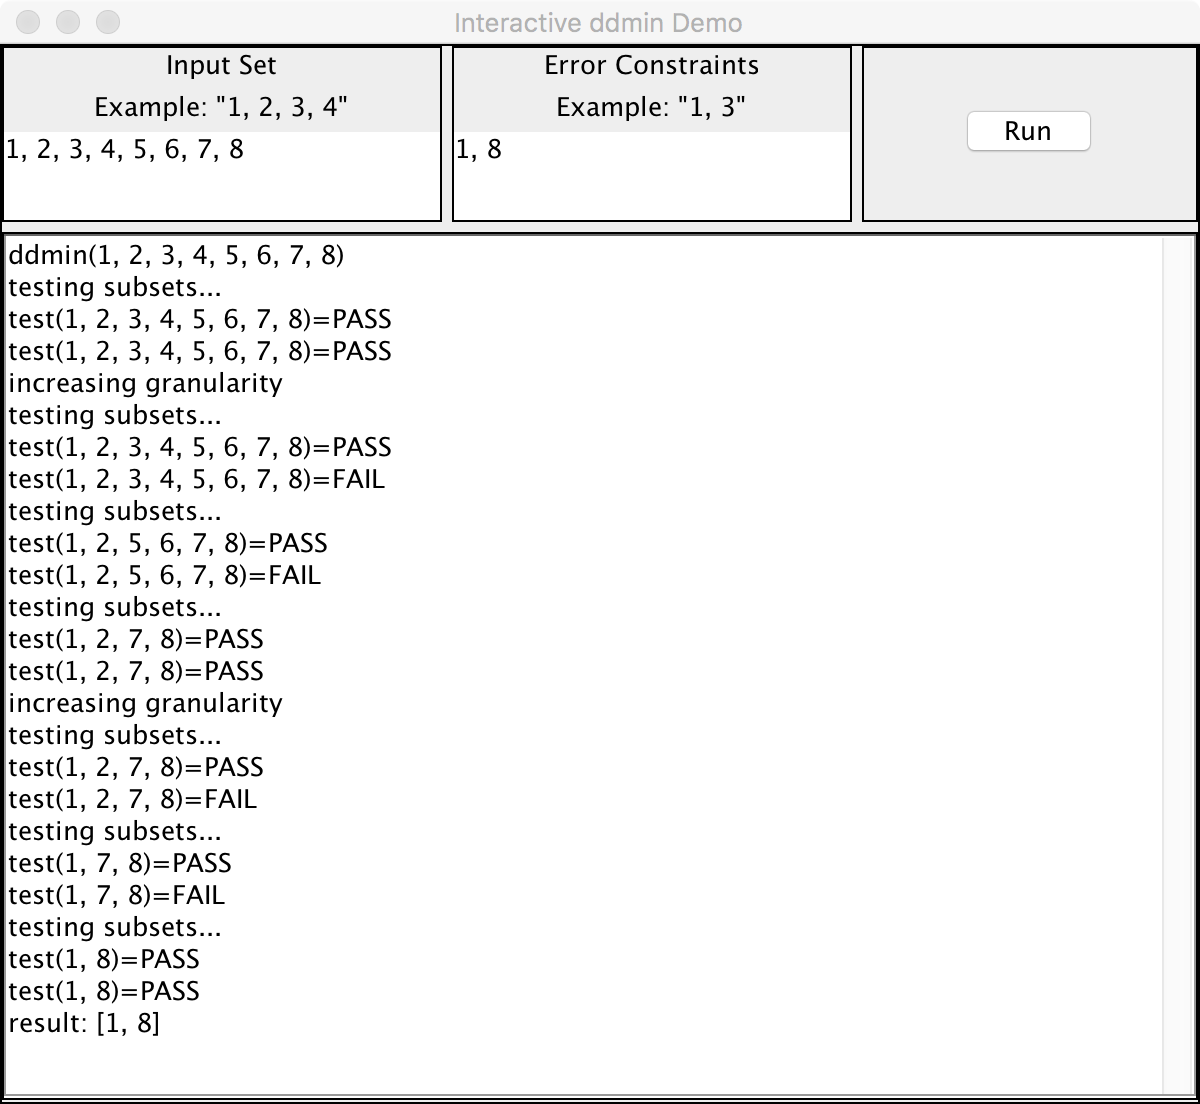
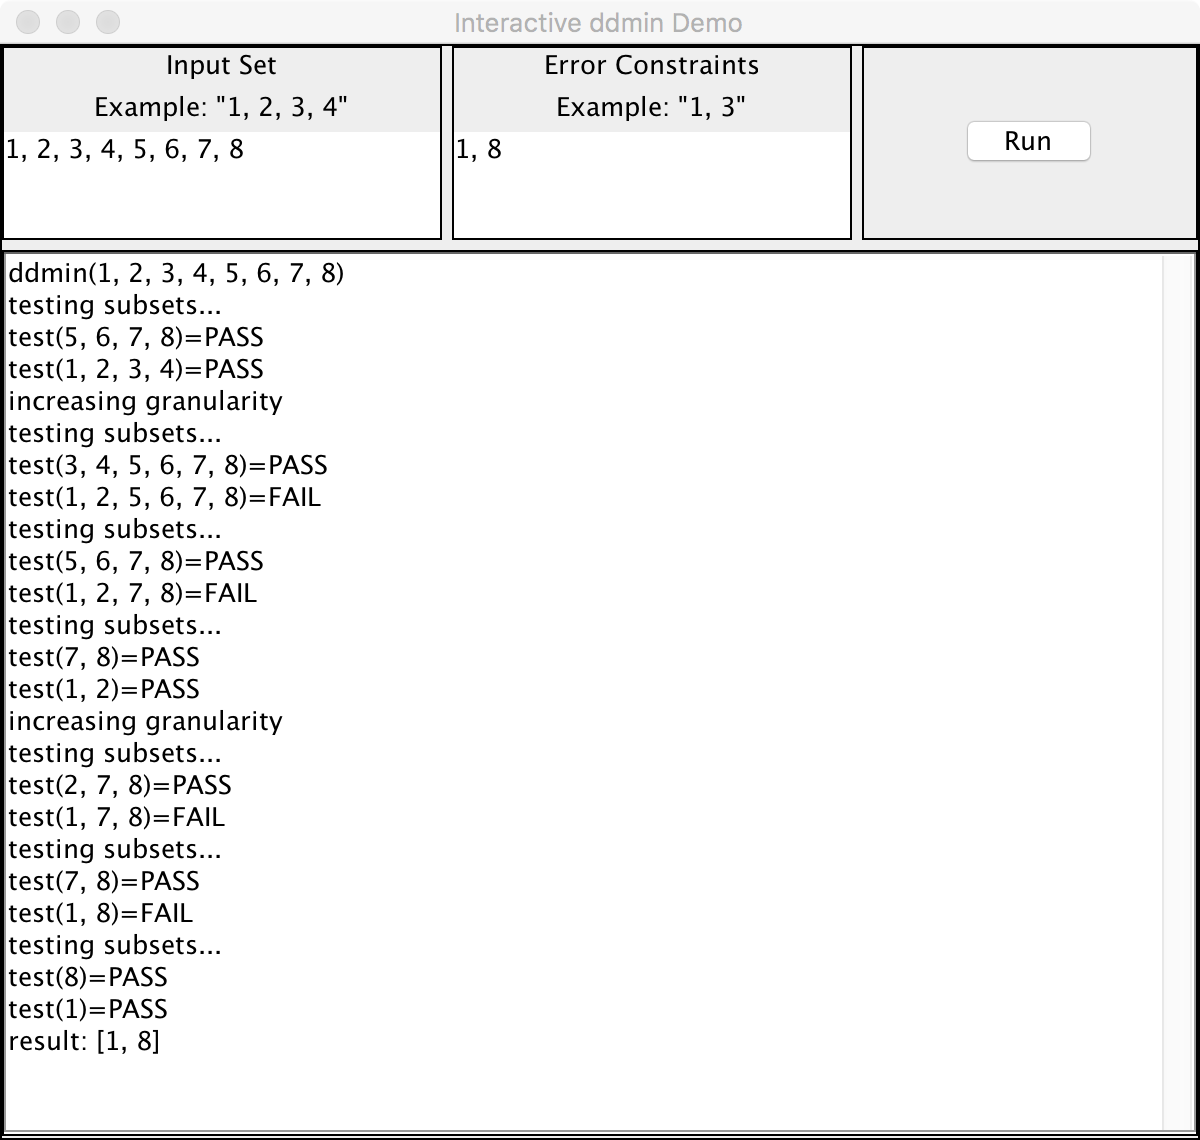
bug fixed for bad display output

diff --git a/DeltaDebug/src/dd/examples/InteractiveDemo.java b/DeltaDebug/src/dd/examples/InteractiveDemo.java
@@ -277,7 +277,7 @@ public class InteractiveDemo extends JFrame {
 					
 					int test = harness.run(complement);
 					
-					outputTextArea.append("test(" + input.toString().replace("[", "").replace("]", "") + ")=");
+					outputTextArea.append("test(" + complement.toString().replace("[", "").replace("]", "") + ")=");
 					if(test == TestHarness.PASS){
 						outputTextArea.setText(outputTextArea.getText() + "PASS\n");
 					} else if(test == TestHarness.FAIL){
